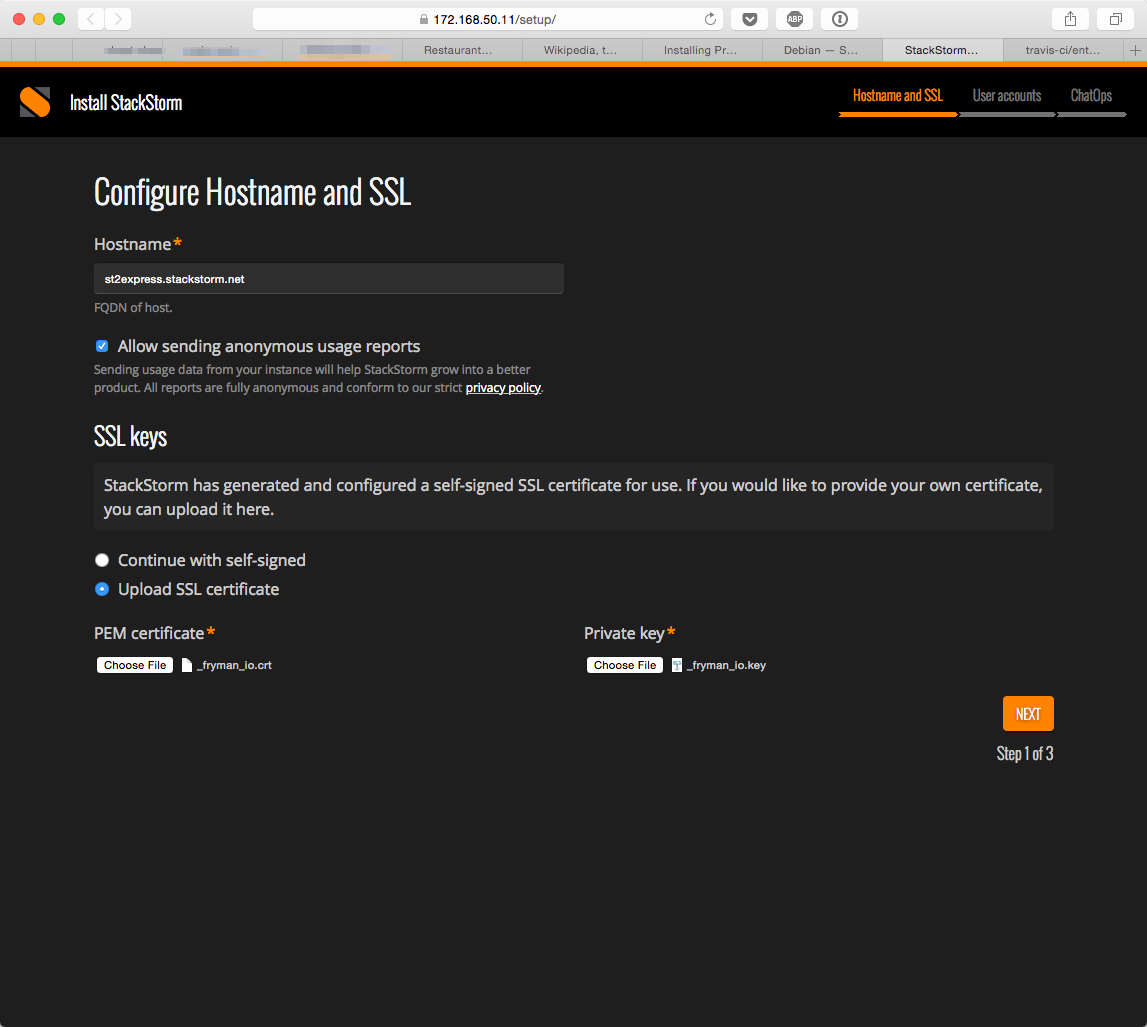
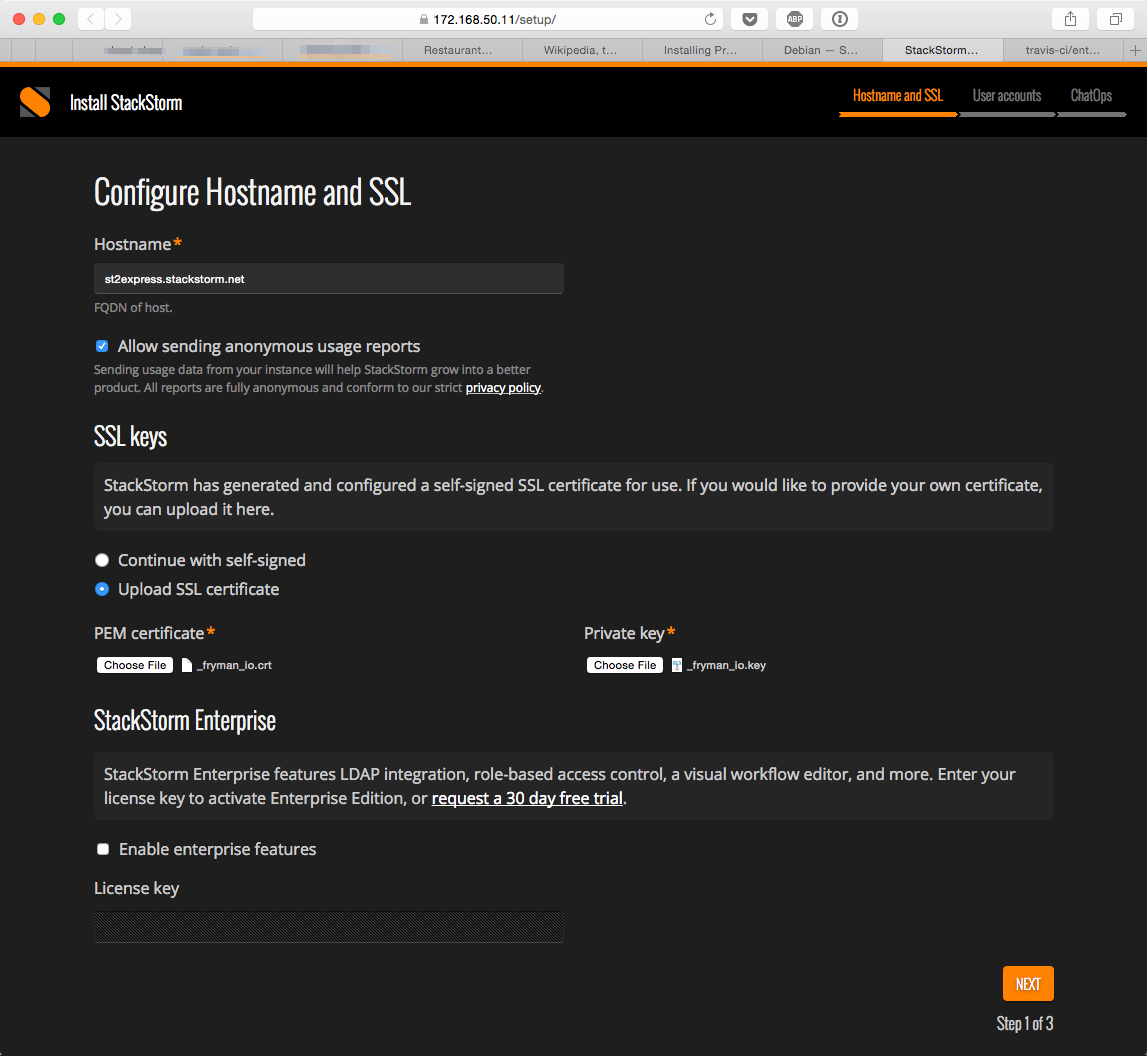
Installer docs update

diff --git a/docs/source/install/all_in_one.rst b/docs/source/install/all_in_one.rst
@@ -135,11 +135,12 @@ Step 1: Configuring Hostname and SSL
 
 .. figure:: /_static/images/st2installer_step_1.png
 
-In this step, you will be setting up the networking for |st2|. Here, you will configure the hostname of the new server and optionally upload SSL certificates to be used by the |st2| WebUI, Auth, and API HTTP endpoints.
+In this step, you will be setting up the networking for |st2|. Here, you will configure the hostname of the new server and optionally upload SSL certificates to be used by the |st2| WebUI, Auth, and API HTTP endpoints. You will also specify your StackStorm Enterprise license key if you have one.
 
 #. Enter the FQDN of the |st2| server. This FQDN should be setup in your DNS server
 #. *(Optional)* Choose to send anonymous data to |st2|.
 #. Select either **Continue with self-signed** to continue with the automatically generated SSL certificates, or **Upload SSL Certificate** to upload public/private SSL keys.
+#. *(Optional)* Enable the Enterprise features. If you don't have a license key, request a 30-day trial at `stackstorm.com <https://stackstorm.com/product#enterprise>`_.
 #. Click **Next**
 
 Note: Uploaded SSL certificates should be in X509 ASCII/Base64 armored format.
